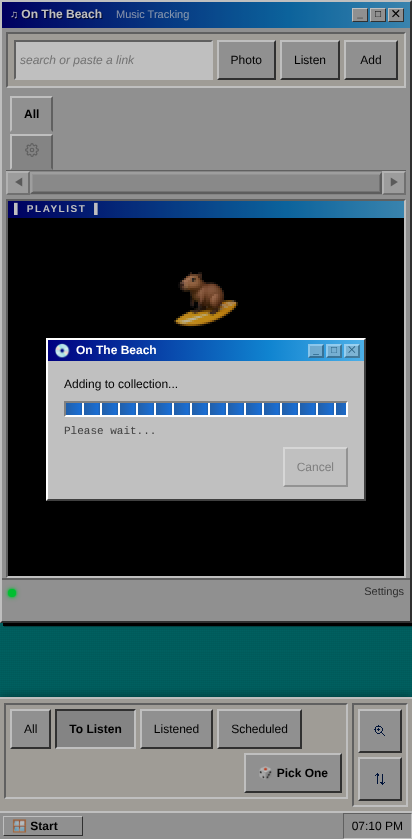
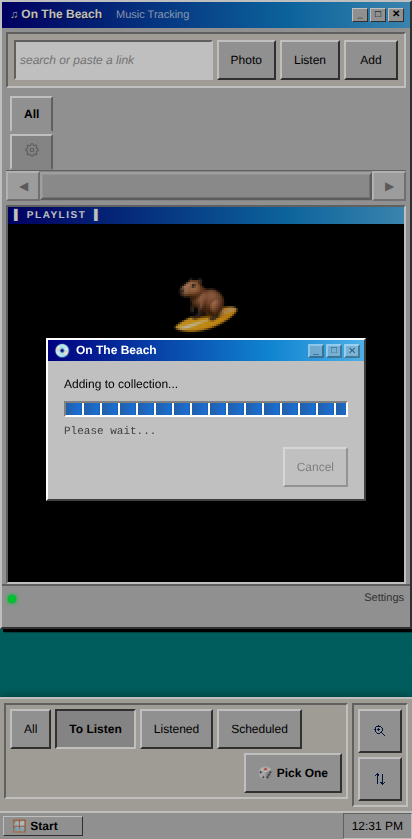
fix(mobile): make the stack bar scrollbar work with touch
The horizontal stack-bar scrollbar was wired to mouse-only events, so on a
phone the thumb and track were dead and the tiny arrows were the only way
to move it — effectively unusable. (The vertical playlist scrollbar already
used pointer events; the horizontal one had been left behind.)

Switch HorizontalScrollbar to pointer events (thumb drag, track paging and
press-and-hold arrow repeat), capture the pointer during a drag, and mark
the controls touch-action: none so a finger drag scrolls the bar instead of
panning the page. Also enlarge the arrows and track on small screens for
comfortable tapping. Native swipe on the tabs continues to work.

Regenerated the affected mobile visual-regression baselines.

Claude-Session: https://claude.ai/code/session_01AwWWnb12Kb6qdVGFMEx8qY

diff --git a/src/lib/components/HorizontalScrollbar.svelte b/src/lib/components/HorizontalScrollbar.svelte
@@ -81,16 +81,20 @@
   }
 
   $effect(() => {
-    document.addEventListener("mouseup", stopRepeatScroll);
+    // Pointer events unify mouse, touch and pen so the retro scrollbar works
+    // when dragged with a finger, not just a mouse.
+    document.addEventListener("pointerup", stopRepeatScroll);
+    document.addEventListener("pointercancel", stopRepeatScroll);
     window.addEventListener("blur", stopRepeatScroll);
     return () => {
-      document.removeEventListener("mouseup", stopRepeatScroll);
+      document.removeEventListener("pointerup", stopRepeatScroll);
+      document.removeEventListener("pointercancel", stopRepeatScroll);
       window.removeEventListener("blur", stopRepeatScroll);
       stopRepeatScroll();
     };
   });
 
-  function onTrackMouseDown(event: MouseEvent): void {
+  function onTrackPointerDown(event: PointerEvent): void {
     if (!target || !trackEl) return;
     if ((event.target as HTMLElement).id === thumbId) return;
 
@@ -103,7 +107,7 @@
     });
   }
 
-  function onDragMove(event: MouseEvent): void {
+  function onDragMove(event: PointerEvent): void {
     if (!drag || !target || !trackEl) return;
 
     const scrollRange = target.scrollWidth - target.clientWidth;
@@ -121,14 +125,19 @@
 
   function onDragEnd(): void {
     drag = null;
-    document.removeEventListener("mousemove", onDragMove);
+    document.removeEventListener("pointermove", onDragMove);
   }
 
-  function onThumbMouseDown(event: MouseEvent): void {
+  function onThumbPointerDown(event: PointerEvent): void {
     event.preventDefault();
+    const thumb = event.currentTarget as HTMLElement;
+    if (event.pointerId !== undefined && typeof thumb.setPointerCapture === "function") {
+      thumb.setPointerCapture(event.pointerId);
+    }
     drag = { startX: event.clientX, startLeft: thumbLeft };
-    document.addEventListener("mousemove", onDragMove);
-    document.addEventListener("mouseup", onDragEnd, { once: true });
+    document.addEventListener("pointermove", onDragMove);
+    document.addEventListener("pointerup", onDragEnd, { once: true });
+    document.addEventListener("pointercancel", onDragEnd, { once: true });
   }
 </script>
 
@@ -139,9 +148,10 @@
     data-stack-scroll-btn="left"
     tabindex="-1"
     onclick={() => scrollByStep(-80)}
-    onmousedown={() => startRepeatScroll(-80)}
-    onmouseup={stopRepeatScroll}
-    onmouseleave={stopRepeatScroll}
+    onpointerdown={() => startRepeatScroll(-80)}
+    onpointerup={stopRepeatScroll}
+    onpointerleave={stopRepeatScroll}
+    onpointercancel={stopRepeatScroll}
   >
     ◀
   </button>
@@ -150,14 +160,14 @@
     class="stack-scrollbar__track"
     role="presentation"
     bind:this={trackEl}
-    onmousedown={onTrackMouseDown}
+    onpointerdown={onTrackPointerDown}
   >
     <div
       id={thumbId}
       class="stack-scrollbar__thumb"
       role="presentation"
       style="width: {thumbWidth}px; left: {thumbLeft}px"
-      onmousedown={onThumbMouseDown}
+      onpointerdown={onThumbPointerDown}
     ></div>
   </div>
   <button
@@ -166,9 +176,10 @@
     data-stack-scroll-btn="right"
     tabindex="-1"
     onclick={() => scrollByStep(80)}
-    onmousedown={() => startRepeatScroll(80)}
-    onmouseup={stopRepeatScroll}
-    onmouseleave={stopRepeatScroll}
+    onpointerdown={() => startRepeatScroll(80)}
+    onpointerup={stopRepeatScroll}
+    onpointerleave={stopRepeatScroll}
+    onpointercancel={stopRepeatScroll}
   >
     ▶
   </button>

diff --git a/src/styles/main.css b/src/styles/main.css
@@ -765,6 +765,9 @@ select.input {
   line-height: 1;
   padding: 0;
   cursor: pointer;
+  /* Own the gesture so a finger press/hold repeats the scroll instead of
+     panning the page. */
+  touch-action: none;
 }
 
 .stack-scrollbar__button:active,
@@ -775,6 +778,8 @@ select.input {
 .stack-scrollbar__track,
 .music-scrollbar__track {
   position: relative;
+  /* Dragging the thumb (or tapping the track) must not pan the page. */
+  touch-action: none;
   background-color: var(--chrome-light);
   background-image:
     radial-gradient(var(--chrome-mid) 0.75px, transparent 0.85px),
@@ -807,6 +812,7 @@ select.input {
   bottom: 1px;
   left: 0;
   min-width: 42px;
+  touch-action: none;
 }
 
 .stack-scrollbar__thumb:active,
@@ -1461,6 +1467,22 @@ select.input {
     min-height: var(--control-h-sm);
     top: 0;
     white-space: nowrap;
+  }
+
+  /* Finger-sized retro scrollbar: bigger arrows and a taller track/thumb so
+     the stack bar is comfortable to drag, tap and swipe on a phone. */
+  .stack-scrollbar {
+    grid-template-columns: 34px minmax(0, 1fr) 34px;
+  }
+
+  .stack-scrollbar__button {
+    width: 34px;
+    height: 30px;
+    font-size: var(--text-base);
+  }
+
+  .stack-scrollbar__track {
+    min-height: 30px;
   }
 }
 